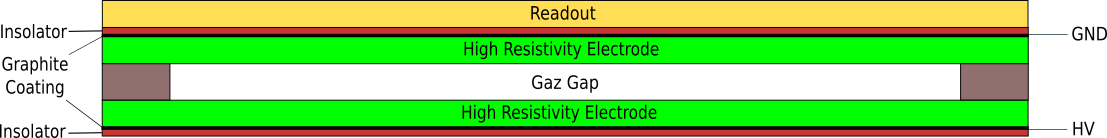
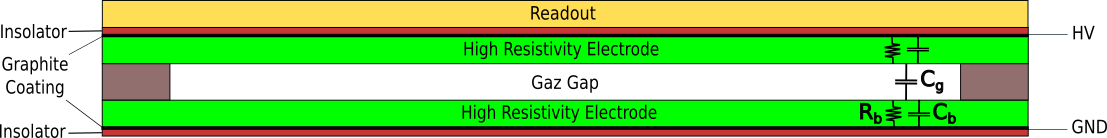
A bit more

diff --git a/RPC/RPC.tex b/RPC/RPC.tex
@@ -46,12 +46,7 @@ Le premier détecteur gazeux utilisant cette méthode est le compteur à étince
 Afin de résoudre ces problèmes, les électrodes métalliques peuvent être remplacées par des plaques de matériaux de haute résistivité (\SIrange{10e9}{10e10}{\ohm\centi\meter}) afin de limiter l'aire de décharge des électrodes autour du signal. Un mélange de gaz absorbant les photons permet d'éviter le mode streamer. Ce qui permet le fonctionnement du détecteur à des flux de particules plus important. Le champs électrique baissant localement du fait de la recharge plus lente des électrodes, le développement d'avalanches successives au même endroit est limité tout en laissant le détecteur opérationnel hors de cette zone.
 
 \subsubsection{Naissance des RPC}
-En 1981 R.Santonico et R.Cardarelli développent les Resistive Plate Chamber (RPC) \cite{Santonico:1981sc} \cite{CARDARELLI198820}. Ce détecteur utilise un matériau peu coûteux, très utilisé et de haute résistivité ($\sim$\SI{e10}{\ohm\centi\meter}), le High Pressure Laminate (HPL) fait de melamine ou résine phénol-formaldéhyde (Bakélite). Le temps de décharge d'une électrode d'une telle résistivité recevant une charge $Q_{0}$ est donné par :
-\begin{equation}
-Q(t)=Q_{0}e^{\frac{-t}{\rho\epsilon_{0}\epsilon_{r}}}=Q_{0}e^{\frac{-t}{\tau}}
-\end{equation}
-avec $\rho$ la resistivité volumique du matériau, $\epsilon_{0}$ la permittivité du vide et $\epsilon_{r}$ la permittivité relative du matériau.
-Les charges présentes sur les électrodes réduisent la haute tension appliquée et donc le champ électrique à l'endroit des charges. Le détecteur devient inefficace pour cette période de temps $\tau$ à l'endroit du dépôt des charges tout en restant efficace ailleurs. Pour le cas de la bakélite $\rho\simeq\SI{10e10}{\ohm\centi\meter}$ le temps de relaxation est de l'ordre de \SI{50}{\second}. Grâce à l'utilisation de matériaux de haute résistivité, l'utilisation de chambres de grande taille était désormais possible.
+En 1981 R.Santonico et R.Cardarelli développent les Resistive Plate Chamber (RPC) \cite{Santonico:1981sc} \cite{CARDARELLI198820}. Ce détecteur utilise un matériau peu coûteux, très utilisé et de haute résistivité ($\sim$\SI{e10}{\ohm\centi\meter}), le High Pressure Laminate (HPL) fait de melamine ou résine phénol-formaldéhyde (Bakélite). 
 
 Plusieurs configuration pour les RPC sont possibles, mais l'une des plus simples est donnée par la figure \ref{RPCscheme}.
 
@@ -63,6 +58,28 @@ Plusieurs configuration pour les RPC sont possibles, mais l'une des plus simples
 \end{figure}
 
 Une couche de gaz est comprise entre deux plaques d'électrodes résistives. Ces plaques sont peintes avec du graphite qui est utilisé pour distribuer la haute tension sur les électrodes. L'électronique est isolée de la chambre par un isolant fin, de type feuille de poly(téréphtalate d'éthylène) (Mylar). L'électronique peut être placée de chaque coté de la chambre et peut être constituée de carreaux ou de lamelles etc.
+
+Un modèle électrique simplifié d'un RPC peut être obtenu (cf.ref~\ref{RPCscheme}). En notant, $C_{b}$ la capacité de la bakélite, $R_{b}$ sa résistance et $C_{g}$ la capacité du gaz.
+
+La résistance de la bakélite est donnée par :
+\begin{equation}
+R_b=\frac{\rho d}{S}
+\end{equation}
+avec $\rho$ la résistivité de la bakélite, $d$ l'épaisseur de l'électrode et $S$ sa surface.
+
+La capacité de la bakélite est donnée quant à elle par :
+\begin{equation}
+C_{b}=\epsilon_0\epsilon_r\frac{S}{d}
+\end{equation} 
+avec $\epsilon_0$ la permittivité du vide et $\epsilon_r$ la permittivité relative de la Bakélite.
+
+Le temps de décharge d'une électrode de telle résistivitéet capacité recevant une charge $Q_{0}$ est donné par :
+\begin{equation}
+Q(t)=Q_{0}e^{\frac{-t}{R_bC_b}}=Q_{0}e^{\frac{-t}{\rho\epsilon_{0}\epsilon_{r}}}=Q_{0}e^{\frac{-t}{\tau}}
+\end{equation}
+Les charges présentes sur les électrodes réduisent la haute tension appliquée et donc le champ électrique à l'endroit des charges. Le détecteur devient inefficace pour cette période de temps $\tau$ à l'endroit du dépôt des charges tout en restant efficace ailleurs. Pour le cas de la bakélite $\rho\simeq\SI{10e10}{\ohm\centi\meter}$ le temps de relaxation est de l'ordre de \SI{10}{\micro\second}. Grâce à l'utilisation de matériaux de haute résistivité, l'utilisation de chambres de grande taille était désormais possible.
+
+
 Depuis, ces détecteurs de construction simple et robuste ont été utilisés dans de nombreuses expériences : ATLAS \cite{ATLAS}, BaBar \cite{Boutigny:1995ib} (cf.fig~\ref{babar}), BELLE \cite{ABASHIAN2002117} (cf.fig~\ref{belle}),  Oscillation Project with Emulsion-tRacking Apparatus (OPERA) \cite{1748-0221-9-10-C10003} (cf.fig~\ref{opera}) etc. Différentes solutions technologiques ont été développées selon les besoins des différentes expériences.
 
 \marginpar
@@ -372,8 +389,54 @@ Afin d'empêcher l'augmentation de la résistivité de la Bakélite, \num{35}\% 
 
 Les gaz \chemform{C_2H_2F_4} et \chemform{SF_6} ont un  potentiel de réchauffement global (PRG) \footnote{Le PRG d’un gaz est le rapport entre les effets causés par la libération en début de période d’une masse donnée de ce gaz et ceux causés par la même masse de dioxyde de carbone (\chemform{CO_2})} \textit{Global Warming Potential (GWP)} de \num{1000} et \num{23900} sur une période de \num{100} ans. Dans le but de rejeter et de réduire la consommation de ces gaz, celui-ci circule en circuit fermé avec un une injection de gaz pur de \num{5}\% à \num{10}\% \cite{5401780}. Cependant, ces recirculation de gaz amène à l'augmentation d'impuretés comme le \chemform{HF}, le \chemform{F^-} et d'autres type de molécules à base de Fréon \cite{1748-0221-8-08-T08003}, et à une étude et un monitorage par chromatographie de la composition du gaz injecté et circulant dans les chambres. 
 
-\subsection{Disposition des chambres RPC dans les secteurs des End-Caps de CMS}
-Le détecteur CMS comporte 
+\marginpar
+{
+	\centering
+	\includegraphics[width=\marginparwidth]{RPC/schemerpc.png}
+	\captionof{figure}{Schéma d'une chambre RPC dans les bouchons \cite{Tytgat:1477019}.}
+	\label{trap}
+}
 
+\subsection{Disposition des chambres RPC dans les secteurs des bouchons de CMS}
+La disposition des chambres RPC dans CMS a été présentée dans la section \ref{RPCPRE}. Ces chambres sont rectangulaires dans le tonneau et trapézoïdales dans les bouchons (cf.fig~\ref{trap}). L'aire des strips contenus dans les chambres ainsi que leur longueur ont été optimisées afin de limiter le bruit par strip qui pourrait augmenter la probabilité de coïncidences fortuites et être considéré comme le passage d'un muon. La longueur des strips est également limitée par le temps de propagation du signal le long de celui-ci. En effet, ce temps de propagation doit être plus cours que le temps de vol entre les stations. La changement de trajectoire du muon selon $\eta$ à cause du champ magnétique est également à prendre en compte pour la longueur des strips.
 
+Les chambres sont donc divisées en deux (trois) $\eta-sectors$ pour les chambres du tonneaux (des bouchons). Les strips ont une longueur comprises entre \num{57} et \SI{125}{\centi\meter} dans le tonneau et entre \num{39.8} et \SI{79.72}{\centi\meter} dans les bouchons. Ces trois $\eta-sectors$ sont notés $A$, $B$, $C$ selon $\eta$ décroissant et comporte \num{32} strips chacun.
 
+Cette divisions le long de $\eta$ amène à la segmentation des gaps des détecteurs afin d'extraire les signaux provenant des strips. Ainsi, les chambres des bouchons sont constitué non pas de deux mais de trois gaps noté $i$ (\textit{Bottom gap}), $ii$ (\textit{Top Wide gap}) et $iii$ (\textit{Top Narrow gap})
+ (cf.fig~\ref{gapslayout}). 
+
+\begin{figure}[ht!]
+	\centering
+	\includegraphics[width=0.75\textwidth]{RPC/gaps.png}
+	\captionof{figure}{Disposition des gaps dans les chambres des bouchons \cite{gapss}.}
+	\label{gapslayout}
+\end{figure}
+
+\marginpar
+{
+	\centering
+	\includegraphics[width=\marginparwidth]{RPC/signalextraction.png}
+	\captionof{figure}{Zone d'exctraction des signaux.}
+	\label{extraction}
+}
+
+\subsection{Électronique de lecture des chambres dans les bouchons}
+L'électronique de lecture des signaux provenant des strips est composées de deux types de cartes :
+\begin{itemize}[label=$\bullet$]
+	\item Les \textbf{Front-End Boards} (FEB) (cf.fig~\ref{Feb}). Dans les bouchons, les FEB contiennent \num{4} ASIC appelées \textit{FEB Chips} s'occupant chacun de \num{8} strips qui sont connectés d'un côté grâce à des câbles coaxiaux. Le positionnement de ces FEB sur la chambre et les zones d'extraction des signaux ont été étudiés afin de limiter la gigue totale du signal (cf.fig~\ref{extraction}). Chaque chambre comporte \num{3} FEB.
+	\begin{figure}[ht!]
+		\centering
+		\includegraphics[width=0.50\textwidth]{RPC/Feb.png}
+		\captionof{figure}{Une Front-End Board des chambres RPC dans les bouchons de CMS. Les \num{4} ASIC sont clairement visible sur le PCB. Les strips sont connectés aux connecteurs du bas et les signaux \textit{Low-Voltage Differential Signaling} (LVDS) sont envoyé grâce aux câbles connectés aux connecteurs du haut. Le connecteur sur la droite permet la connection du FEB au \textit{Distribution Board} (DB) et amène la basse tension et les siganux I$^2$C.}
+		\label{Feb}
+	\end{figure}
+	Le schéma de principe de l'électronique d'une voie du FEB est donné figure \ref{schemeelec} \cite{electro}, le signal est amplifié par un gain important variant linéaire $\approx$\SI{2}{\milli\volt\per\femto\coulomb} jusqu'à \SI{100}{\femto\coulomb} et un gain plus faible au delà. Un discriminateur compare ensuite le signal amplifier à un tension de seuil programmable (\SI{220}{\milli\volt} dans CMS) et permet de sélectionner la charge minimale de déclenchement, cependant ce circuit possède un time-walk de $\approx$\SI{10}{\nano\second} sur la gamme dynamique du signal d'entrée. Ce time-walk est incompatible avec l'utilisation des RPC comme système de déclenchement de CMS. Afin d'obtenir une bonne résolution temporelle en limitant le time-walk, un circuit RC différentie le signal d'entrée et l'envoie dans un zero-crossing discrimator. Ces deux signaux sont ensuite envoyé dans un circuit de coïncidence. Cette méthode permet de réduire le time-walk à $\approx$\SI{1}{\nano\second}. Le signal en sortie déclenche ensuite un circuit monostable qui définit la largeur réglable du signal de sortie. La largeur de ce signal à été réglé à $\approx$\SI{100}{\nano\second} afin de ne pas déclencher sur les rebond du signal d'entrée qui pourrait survenir étant donné qu'il n'y apas d'adaptation d'impédance au bout du strips. Finalement, le signal sort par transmission différentielle basse-tension \textit{Low-Voltage Differencial Signaling} (LVDS) grâce à des paires de câbles torsadées. Chaque FEB possède au moins un capteur de température afin de vérifier le bon fonctionnement de la carte.
+	
+	\item Les \textbf{Distribution Board} (DB) (cf.fig~\ref{DB}) permettent de configurer et de monitorer grâce à une interface I$^2$C les paramètres des FEB. Ces paramètres sont la tension de seuil du discriminateur (\textit{Threshold Voltage} $V_{Th}$), la largeur du signal de sortie (\textit{Monostable Voltage} $V_{Mon}$). Ces paramètre sont commun au \num{8} voies d'un même ASIC d'un FEB. Les valeurs par défaults de ces paramètres\footnote{En cas de perte de connexion} sont réglable par des potentiomètres placés sur le PCB des FEB pour les FEB servant de test. Pour les FEB présents dans les chambres de CMS, ces potentiomètres ont été remplacés par des convertisseur digital analogie (DAC). Chaque chambre des bouchons possède un DB.
+		\begin{figure}[ht!]
+		\centering
+		\includegraphics[width=0.50\textwidth]{RPC/DB.png}
+		\captionof{figure}{Un DB.}
+		\label{DB}
+	\end{figure}
+\end{itemize}

diff --git a/CMS/CMS.tex b/CMS/CMS.tex
@@ -288,7 +288,7 @@ La figure \ref{CHAMP} montre une simulation par éléments-finis de la valeur du
 	\label{CHAMP}
 \end{figure}
 \subsection{Le spectrographe à muons}
-
+\label{RPCPRE}
 Le spectographe à muons (cf.fig~\ref{CMS1},fig\ref{CMS2}) a pour but d'identifier les muons, de mesurer avec précision leur quantité de mouvement et de déclencher sur les événements contenant des muons.
 \marginpar
 {
